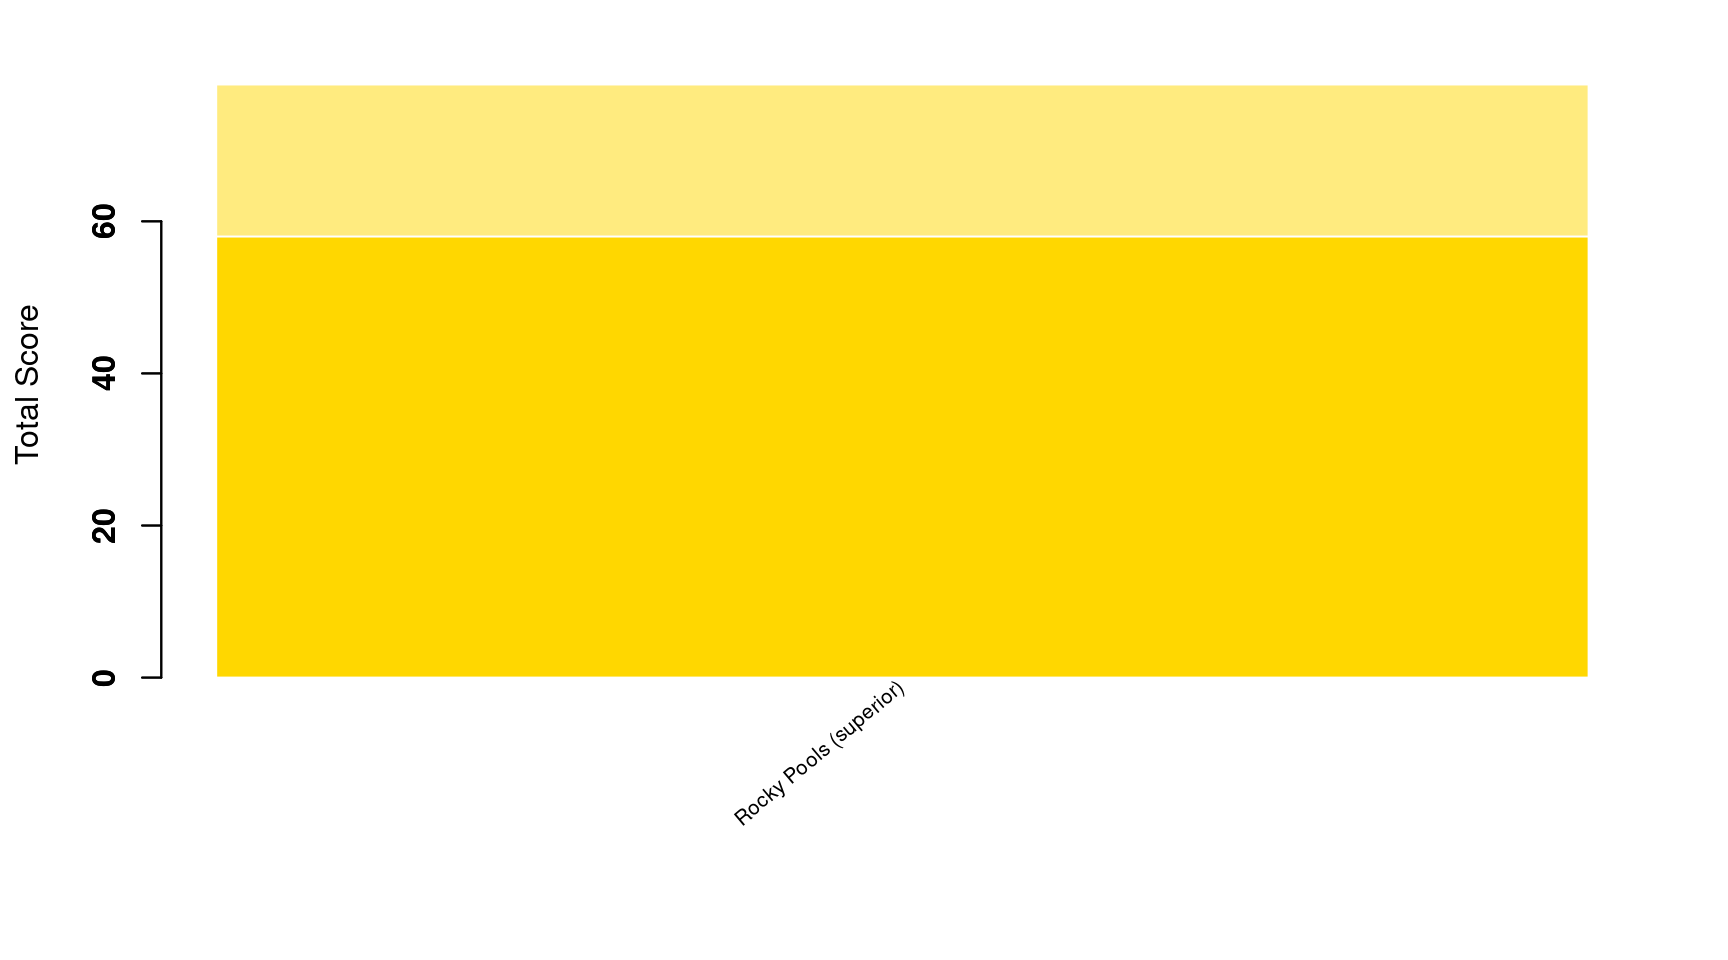
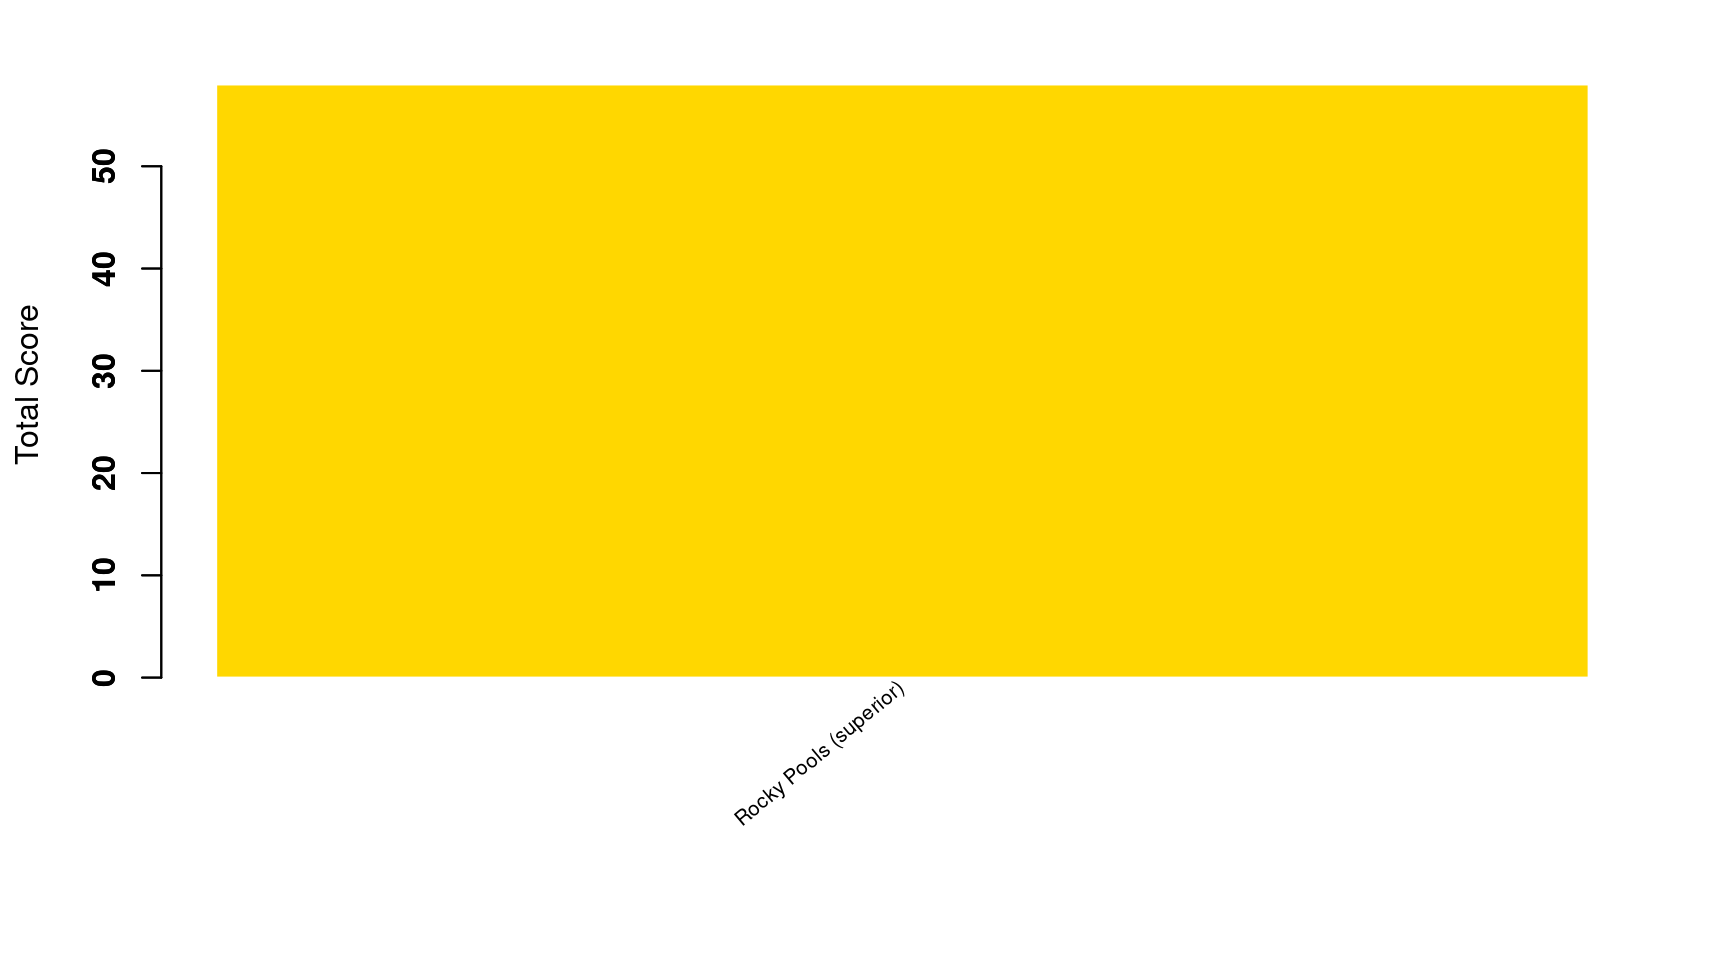
Add files via upload

diff --git a/BRPC_East_Sands_April_2026_report.html b/BRPC_East_Sands_April_2026_report.html
@@ -89,7 +89,7 @@ document.addEventListener("DOMContentLoaded", function () {
   Species
   </td>
   <td style="text-align:right;padding:10px 18px;">
-  8
+  7
   </td>
   </tr>
   <tr>
@@ -121,7 +121,7 @@ document.addEventListener("DOMContentLoaded", function () {
   Unverified score
   </td>
   <td style="text-align:right;padding:10px 18px;">
-  78
+  58
   </td>
   </tr>
   <tr>
@@ -174,10 +174,10 @@ document.addEventListener("DOMContentLoaded", function () {
   tessachri
   </td>
   <td style="text-align:right;text-align:right;">
-  8
+  7
   </td>
   <td style="text-align:right;text-align:right;">
-  78
+  58
   </td>
   <td style="text-align:right;">
   58
